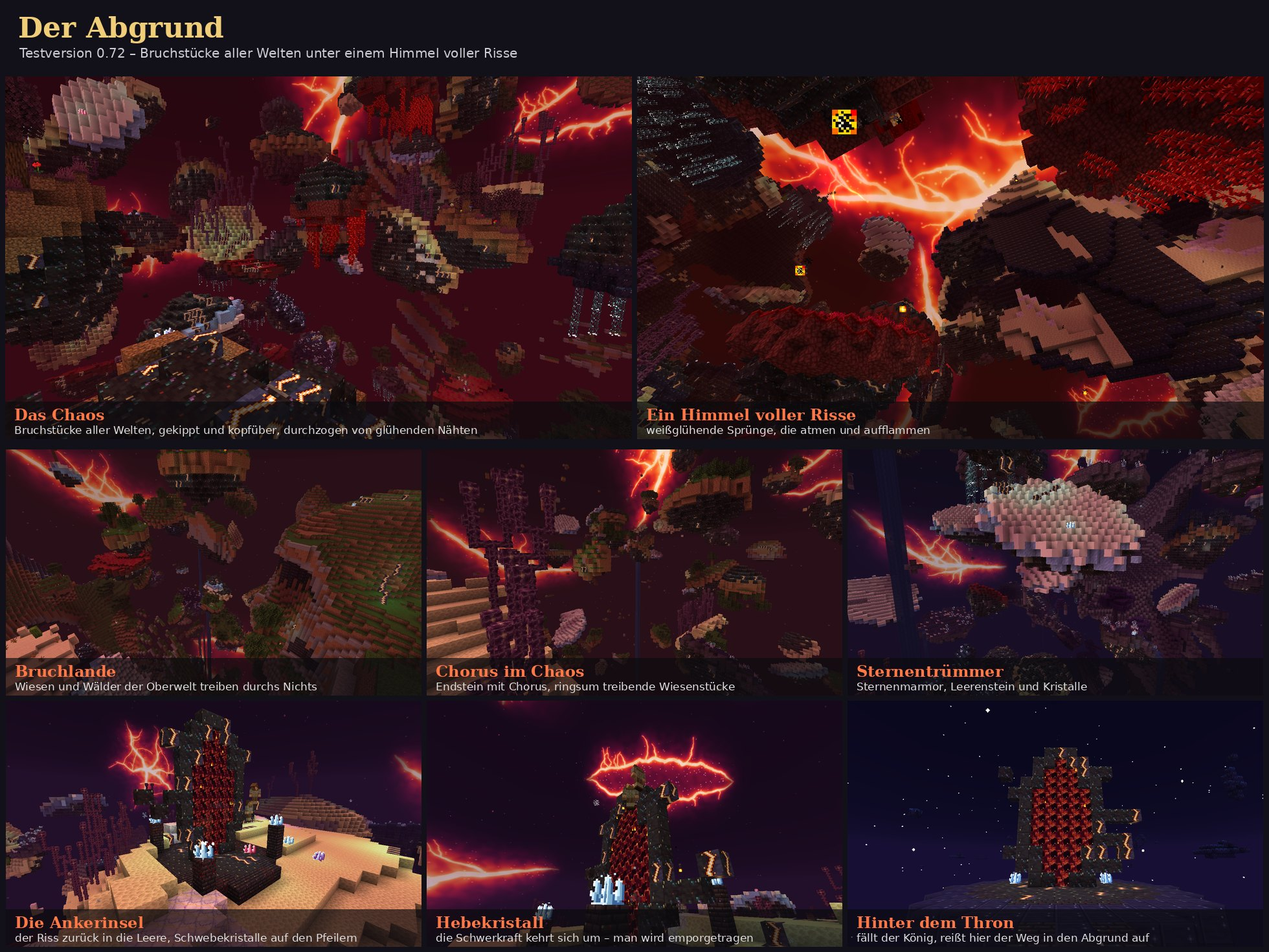
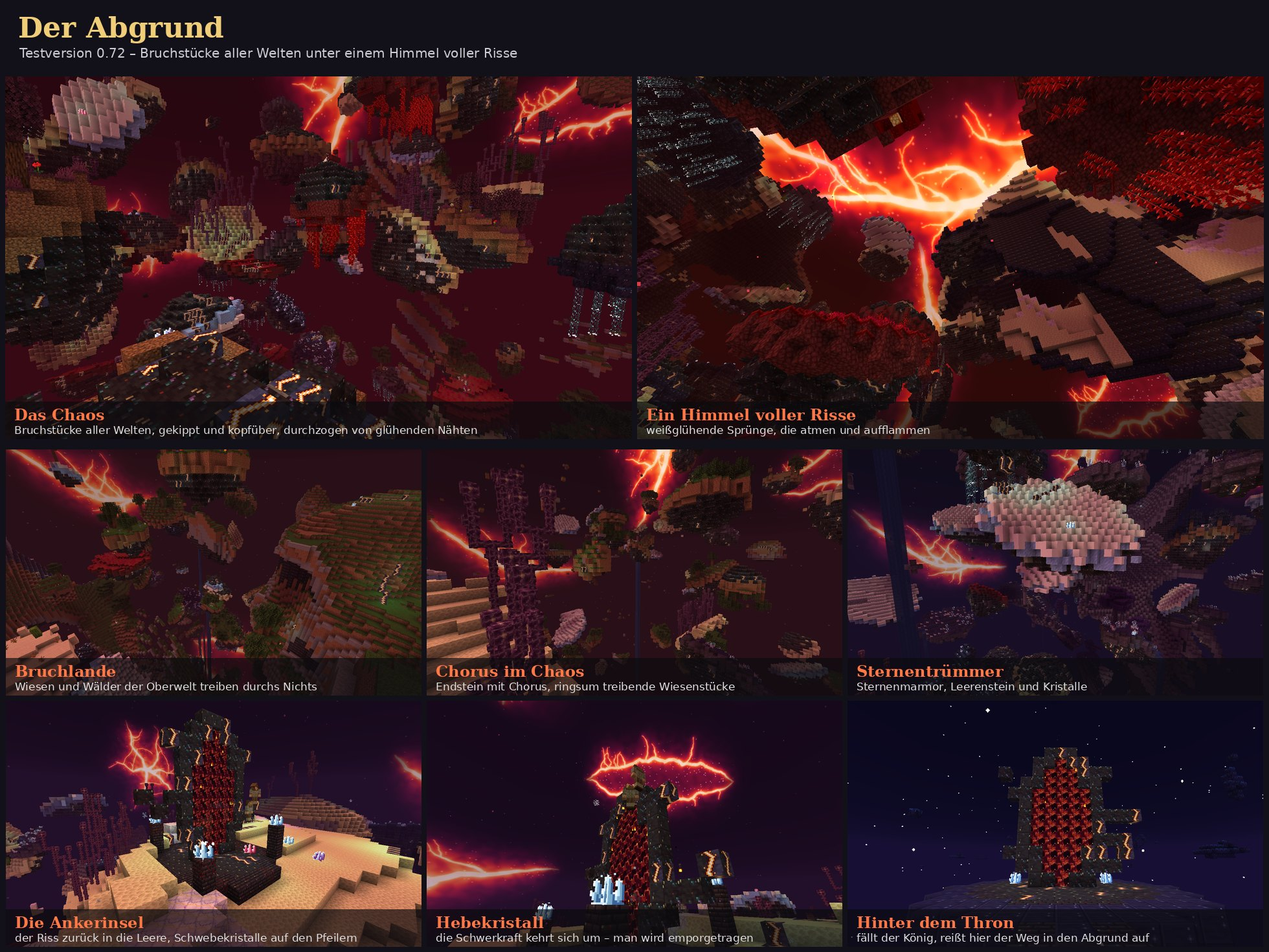
0.72: Der Abgrund – fertig (370 Tests grün, Servertest)
- Test der Reise räumt Riss und Saum wieder weg (die Zacken ragten zu den Nachbartests)
- Collage mit neuem Blick hinauf (ohne Lavapartikel)

Claude-Session: https://claude.ai/code/session_01WtHWA3vocSHZRRDbAFtTSP

diff --git a/src/main/java/io/github/sirschrolli/kingdomsatwar/gametest/AbyssGameTests.java b/src/main/java/io/github/sirschrolli/kingdomsatwar/gametest/AbyssGameTests.java
@@ -224,7 +224,19 @@ final class AbyssGameTests {
             state.remove(stored);
         }
         state.save(overworld);
+        clearRift(overworld, bottom);
         helper.succeed();
+    }
+
+    /** Räumt Riss und Saum wieder weg – die Zacken ragen über den Testplatz hinaus zu den Nachbartests. */
+    private static void clearRift(ServerLevel level, BlockPos bottom) {
+        for (BlockPos pos : BlockPos.betweenClosed(bottom.offset(-9, -1, -2), bottom.offset(9, AbyssGate.RIFT_HEIGHT + 2, 2))) {
+            var state = level.getBlockState(pos);
+            if (state.is(AbyssBlocks.ABYSS_RIFT.get()) || state.is(AbyssBlocks.WORLD_SEAM.get()) || state.is(AbyssBlocks.CHAOS_STONE.base().get())
+                    || (state.is(AbyssBlocks.POLISHED_CHAOS_STONE.base().get()) && pos.getY() >= bottom.getY())) {
+                level.setBlock(pos, Blocks.AIR.defaultBlockState(), Block.UPDATE_CLIENTS);
+            }
+        }
     }
 
     /**
